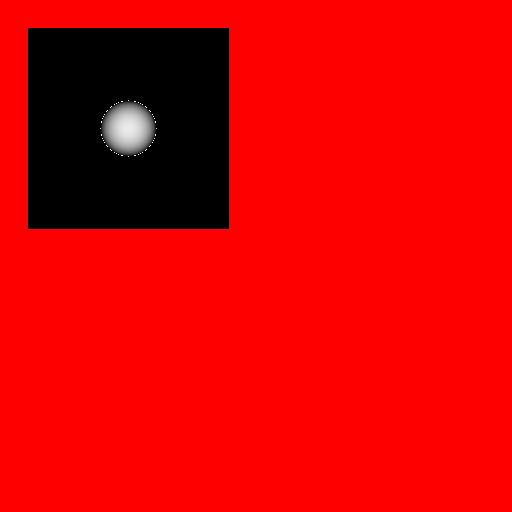
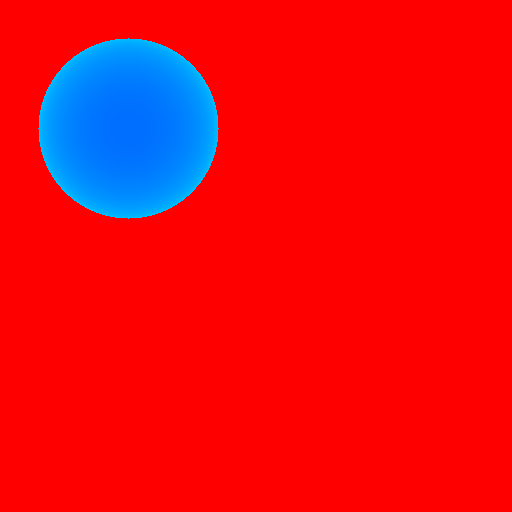
intersection works perfectly

Changed region(s): [[0.0312, 0.0312, 0.4688, 0.4688]]

diff --git a/rat_sphere_interaction/rat_sphere_interaction.cpp b/rat_sphere_interaction/rat_sphere_interaction.cpp
@@ -30,7 +30,7 @@ float raySphereIntersect(Vector3 r0, Vector3 rd, Vector3 s0, float sr) {
     float sol = (-b - sqrt((b* b) - 4.0 * a * c)) / (2.0 * a);
     if (sol <= 0) {
         //return -1.0;
-        return false;
+        return - 1;
     }
     return sol;
     }
@@ -45,27 +45,26 @@ int main()
     int size = 512;
     Image img(size, size, "result.png", red);
     
-    int changed = 0;
+    Vector3 d(0, 0, 1);
+    Vector3 c(0, 0, 100);
+    float dis;
+    Vector3 light(0, 200, 100);
+
     for (int x = -100; x <= 100; x++) {
         for (int y = -100; y <= 100; y++) {
             Vector3 a(x, y, 0);
-            Vector3 d(0, 0, 1);
-            Vector3 s(0, 0, 30);
-            RGBColor color(255, 255, 255);
-            changed++;
-
-            if (raySphereIntersect(a, d, s, 28)) {
-                float dis = raySphereIntersect(a, d, s, 28);
-                color.r -= dis * 10;
-                color.g -= dis * 10;
-                color.b -= dis * 10;
+            RGBColor color(0, 0, 255);
+            float r = 90;
+            if (raySphereIntersect(a, d, c, r) >= 0 ) {
+                dis = raySphereIntersect(a, d, c, r);
+                color.g = dis + 100;
                 img.SetPixel(x + 128, y + 128, color);
-
-                cout << "changed " << changed << endl;
                 }
 
         }
     }
+
+
 
 
 
